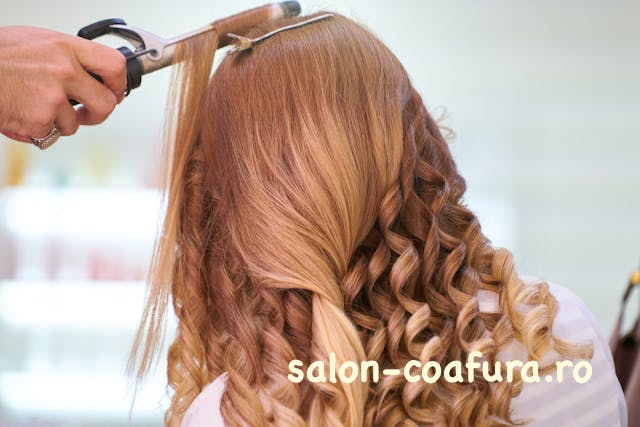
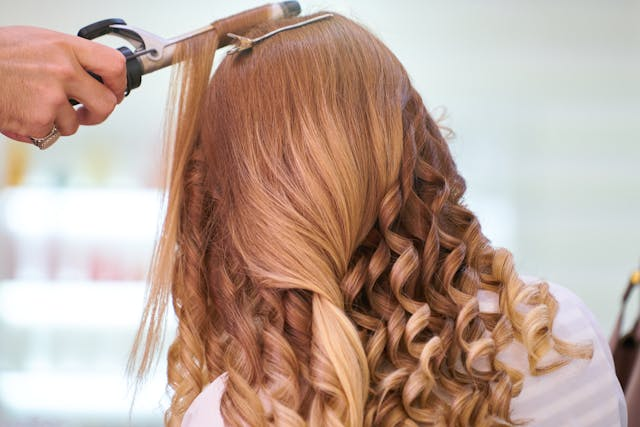
removed ictures

Changed region(s): [[0.4375, 0.822, 0.9375, 0.9133]]

diff --git a/index.html b/index.html
@@ -73,10 +73,6 @@
                 <div class="ag">Agentie de web design</div>
                 <p class="agtext">Promovam afacerea ta pe net</p>
                 <div class="log">
-                <!--        <div class="cube">
-                            <div class="cube1"><p>www.</p></div>
-                            <div class="cube2"><p>pentru-tine.com</p></div>
-                        </div> -->
                         <h3 class="logo1" style="text-align: center;">Site-uri personale sau de afaceri</h3>
                     </div>
                     <div class="cryptorate">
@@ -162,7 +158,7 @@
                 </div>
 
                 <div class="frontimg">
-                    <img id="myimage" src="./pictures/2appledesktops.jpg"   alt="">
+                    <img id="myimage" src="./pictures/nature.jpeg"   alt="">
                     <div class="fronttext">
                         <h4 style="margin-left: 20px; font-size: 1.4rem;">Construim site-uri web pentru tine</h4>
                         <ul>
@@ -211,8 +207,8 @@
      <section id="work" class="portfolio">
         <div class="container">
             <h2 class="section-title">Proiecte recente</h2>
-            <p class="section-subtitle">Mai jos sunt doua proiecte, un blog potrivit pentru 
-                creatori de media si un site de prezentare generala.</p>
+            <p class="section-subtitle">Mai jos sunt doua proiecte de site-uri statice, 
+                un site de pentru un restaurant si un site de prezentare hotel.</p>
             <div class="portfolio-grid">
               <div class="portfolio-card">
                 <div class="portfolio-img">

diff --git a/frontpage.js b/frontpage.js
@@ -45,25 +45,25 @@ const b = './pictures/laptopondesk.jpg';
 const c = './pictures/laptoppink.jpg';
 const d = './pictures/laptopgraph.jpg';
 
-const a0 = './pictures/electriccarcharge.jpg'
-const a1 = './pictures/designroom1.jpg'
-const a2 = './pictures/flowersondesck.jpg'
-const a3 = './pictures/barberdesk.jpg'
-const a4 = './pictures/ligthonwall.jpg'
-const a5 = './pictures/mediaapps.jpg'
-const a6 = './pictures/plumberworking.jpg'
-const a7 = './pictures/renewablepannels.jpg'
-const a8 = './pictures/carrepait.jpg'
+const a0 = './pictures/blog.jpeg'
+const a1 = './pictures/cafe.jpeg'
+const a2 = './pictures/food.jpeg'
+const a3 = './pictures/hotel.jpeg'
+const a4 = './pictures/food.jpeg'
+const a5 = './pictures/interiordesign.jpeg'
+const a6 = './pictures/nature.jpeg'
+const a7 = './pictures/catering.jpeg'
+const a8 = './pictures/carrepair.jpg'
 const a9 = './pictures/painterroll.jpg'
 const a10 = './pictures/hairstylewoman.jpg'
-const a11 = './pictures/drone.jpg';
+const a11 = './pictures/pluberworking.jpg';
 const a12 = './pictures/electricaldb.jpg'
 
 const laptop = [a, b, c, d]
-const picturemix = [a0, a1, a2, a3, a4, a5, a6, a7, a8, a9, a10, a11, a12]
+const picturemix = [a0, a1, a2, a3, a4, a5, a6, a7]//, a8, a9, a10, a11, a12]
 let run = 0;
 function changeimg(){
-    if( run == 13){ run = 0}
+    if( run == 8){ run = 0}
     myimage.src = picturemix[run]
     run += 1
 }

diff --git a/exemple.html b/exemple.html
@@ -138,7 +138,7 @@
         <h2>Promoveazati afacerea pe internet</h2>
         <div class="portfolio">
             <div>
-                <img src="./pictures/designroom.jpg" alt="">
+                <img src="./pictures/carrepair.jpg" alt="">
                 <h4>Amenajari interioare</h4>
             </div>
             <div>
